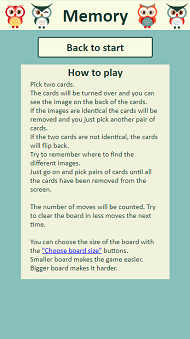
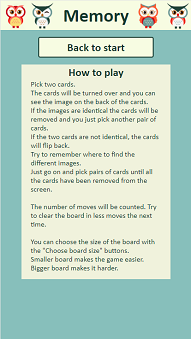
Continue to edit the README.md

diff --git a/README.md b/README.md
@@ -9,7 +9,7 @@ The site's goal is to offer a relaxing game, yet challenging for the mind.
 ### User stories
 - #### First Time Visitor Goals
   - As a first time visitor I want to be able to easily see the purpose of the game and to intuitively be able to figure out how it is played or easily find out how.
-  - As a first time visitor I want to find the environment easy to navigate and the color scheme appealing to the eye.
+  - As a first time visitor I want to find the environment easy to navigate and the colour scheme appealing to the eye.
 
 - #### Returning Visitor Goals
   - As a returning visitor, I want to be able to just play the game without any detours. 
@@ -17,8 +17,7 @@ The site's goal is to offer a relaxing game, yet challenging for the mind.
 
 ### Design
 - #### Colour Scheme
-    The color scheme is chosen to give a soothing feeling and not be a distraction from the challenge of the game and it is consistent throughout the site. 
-    The colors of text and back- and foregrounds follow the recommendations for contrasts.
+    The colour scheme is chosen to give a soothing feeling and not be a distraction from the challenge of the game. It is consistent throughout the site and the colours of text and back- and foregrounds follow the recommendations for contrasts.
     Find the link to the contrast check [here](https://contrast-grid.eightshapes.com/?version=1.1.0&background-colors=&foreground-colors=%23F7FCE2%2C%20Buttons%20and%20header%0D%0A%23193C32%2C%20Text%0D%0A%2387BFBB%2C%20Background%0D%0A&es-color-form__tile-size=compact&es-color-form__show-contrast=aaa&es-color-form__show-contrast=aa&es-color-form__show-contrast=aa18&es-color-form__show-contrast=dnp).
 
 - #### Typography
@@ -29,7 +28,7 @@ The site's goal is to offer a relaxing game, yet challenging for the mind.
         
 ### Wireframes
 The wireframes were made in Balsamiq.  
-The game pages viewed on a mobile device:
+The game pages viewed on a mobile device:  
 ![Wireframes of a mobile screen](assets/images/readme-img/wireframe-1.png)  
 The basic idea of applying the same pages to a larger screen:  
 ![Wireframes of a computer screen](assets/images/readme-img/wireframe-2.png)
@@ -43,8 +42,7 @@ The basic idea of applying the same pages to a larger screen:
 ![The starting page of the game](assets/images/readme-img/start-page.png)
 - On the "how to play" page the player can:
   - Learn how the game is played and what the scoring is based on.  
-  - Go back to the starting page.
-  - Via a link in the text go to the "choose board size" page.  
+  - Go back to the starting page.  
 ![The how to play page](assets/images/readme-img/howtoplay-page.png)
 - The "choose board size" page gives the player an option to choose between different difficult levels by changing the size of the game board:
   - Four different board sizes are provided. The selected board size is highlighted with a switch of text and button colours.  
@@ -88,18 +86,18 @@ The basic idea of applying the same pages to a larger screen:
 - The contrast of the colour scheme was checked on [Contrast Grid](https://contrast-grid.eightshapes.com/?version=1.1.0&background-colors=&foreground-colors=%23F7FCE2%2C%20Buttons%20and%20header%0D%0A%23193C32%2C%20Text%0D%0A%2387BFBB%2C%20Background%0D%0A&es-color-form__tile-size=compact&es-color-form__show-contrast=aaa&es-color-form__show-contrast=aa&es-color-form__show-contrast=aa18&es-color-form__show-contrast=dnp).
 
 ## Testing
-Some of the validations rendered errors at first. How these errors were fixed is described in this document: [Validation Process](validation-process.md).
-- CSS: No errors were returned when passing through the official [Jigsaw Validator]().
+- __CSS:__ No errors were returned when passing through the official [Jigsaw Validator]().
   One warning was returned: -webkit-backface-visibility is a vendor extension.
   But for compatibility reasons, the warning is ignored. 
-- HTML: No errors were returned when passing through the official [W3C Validator]().  
+- __HTML:__ No errors were returned when passing through the official [W3C Validator]().  
   One warning was returned: Section lacks heading. But since the content of the section element is loaded by JavaScript, the warning is ignored.
-- JavaScript: No errors were returned when passing through the official [JSHint Validator]().  
-  A few warnings were returned at first which were easily fixed, like a missing semicolon etc. One warning was: Function declarations should not be placed in blocks. This warning was solved by moving a couple of functions outside of their blocks. One final warning: Functions declared within loops referencing an outer scoped variable may lead to confusing semantics. This issue was not solved, despite efforts. But I was adviced from more experienced coders that this technically is a false positive and can be ignored.
-
-- Lighthouse: The results of the lighthouse evaluation in the Chrome development tool can be found in [Validation Process](validation-process.md).
-- Responsivity: The Chrome development tool has been used to check the responsivity of the web-site. The site works well on all the available predefined screen sizes and on larger screens.
-- Compatibility: The site has been checked for compatibility on Chrome, Edge, Firefox and Safari. The game's compatibility has also been tested on a set of different real life devices and was found to work fine.
+- __JavaScript:__ No errors were returned when passing through the official [JSHint Validator]().  
+  A few warnings were returned at first which were easily fixed, like a couple of missing semicolon etc.  
+  One more severe warning was: Function declarations should not be placed in blocks. This warning was solved by moving a couple of functions outside of their blocks.  
+  One final warning: Functions declared within loops referencing an outer scoped variable may lead to confusing semantics. This issue was not solved, despite efforts. But I was adviced from more experienced coders that this technically is a false positive and can be ignored.     
+- __Lighthouse:__ The results of the lighthouse evaluation in the Chrome development tool looked like this.
+- __Responsivity:__ The Chrome development tool has been used to check the responsivity of the web-site. The site works well on all the available predefined screen sizes as well as on larger screens.
+- __Compatibility:__ The site has been checked for compatibility on Chrome, Edge, Firefox and Safari. The game's compatibility has also been tested on a set of different real life devices and was found to work fine.
 
 ### Testing User Stories from User Experience (UX) Section
 
@@ -113,10 +111,13 @@ Some of the validations rendered errors at first. How these errors were fixed is
   - The game offers four different levels of difficulty for a player to choose from.
 
 ### Further Testing
-
-
+The game was tested throughout the development process and a number of bugs were found and resolved. A couple of examples:
+- Different phenomenon occurd before I managed to get the eventlisteners right and the cards to turn and turn back as they were supposed to.
+- The game broke if the player pushed the quit game button before the cards had turned back.
+This was solved with an if statement checking that the card divs id has a valid value.
 
 ### Known Bugs
+No know bugs remain.
 
 ## Deployment
 ### GitHub Pages
@@ -137,10 +138,14 @@ Apart from finding inspiration in the course material from Code Institute I foun
 
 ### Media
 Both the pattern on the backside of the cards and the images on the cards were collected from [vecteezy.com](https://www.vecteezy.com).
-- Pattern on the back side of the cards: [Pattern Vectors by Vecteezy](https://www.vecteezy.com/vector-art/139382-cute-buho-seamless-patterns")
+- Pattern on the backside of the cards: [Pattern Vectors by Vecteezy](https://www.vecteezy.com/vector-art/139382-cute-buho-seamless-patterns")
 - Card images: [Human Vectors by Vecteezy](https://www.vecteezy.com/vector-art/1337877-set-of-children-toys)
 
-
 ## Acknowledgements
+First I want to thank my Mentor, Narender Singh, who supported me with lots of valuable advice and support during the development process. I have learnt a lot from him that I will benefit from in my future coding career.  
+My fellow slackers deserve, as usual, a big thank you for support and encouragement. No one mentioned, no one forgotten. 
+But the team from Code Institute's 2021 Retro Gaming Hackathon ["Team Noiseland"](https://github.com/andrewdempsey2018/The-Never-Ending-Coding-Adventure-Codehog-Day) needs mentioning since they have done a super job evaluating the game and trying to find bugs.
 
 ## Conclusion
+Coding a responsive game for the first time in my life has been challenging but utterly amazing!  
+I don't understand why it took me this long to go down this path and learn coding for real. 
